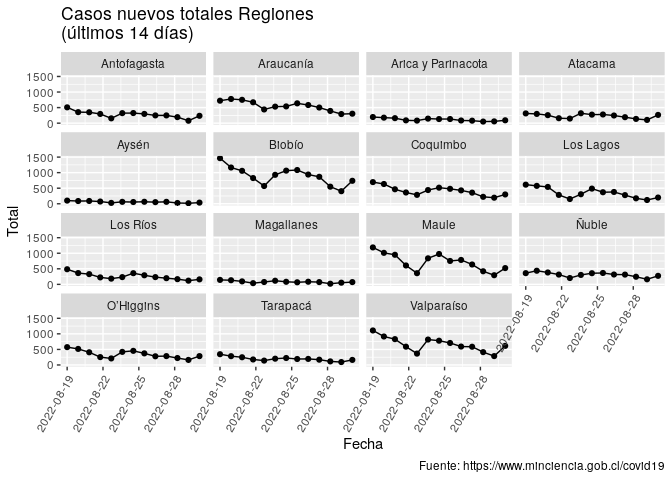
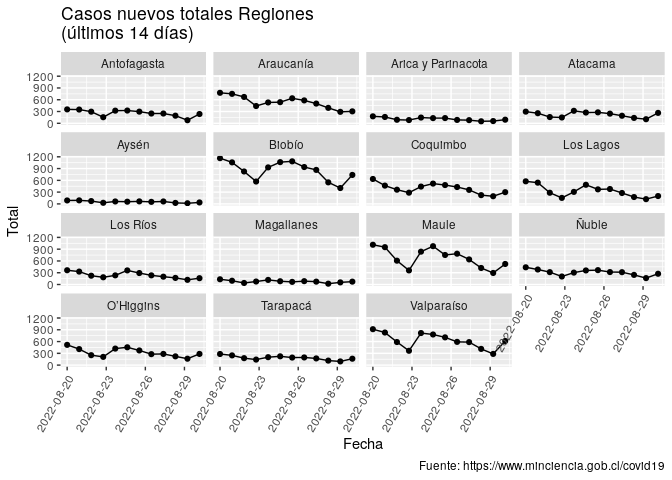
Re-build Rmarkdown files

diff --git a/README.md b/README.md
@@ -3,7 +3,7 @@
 
 Ejemplo de uso de total\_casos de COVID recopilados por el Ministerio de
 Ciencia de Chile <https://www.minciencia.gob.cl/covid19>. Última
-actualización: 2022-09-01
+actualización: 2022-09-02
 
 ## Visualización desde el comienzo de la pandemia
 
